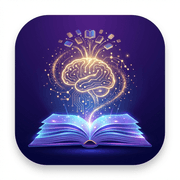
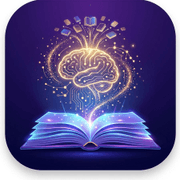
feat: nuova icona app, menu dropdown mobile, fix export - Nuova icona app (libro+cervello AI) con trim automatico spazio bianco - Menu dropdown dai 3 puntini su mobile (Esporta e Rigenera Copertina) - Ripristinato stile viola originale pulsante Esporta - Fix posizionamento menu export verso il basso

diff --git a/frontend/src/components/BookCard.tsx b/frontend/src/components/BookCard.tsx
@@ -1,4 +1,5 @@
-import { useState } from 'react';
+import { useState, useRef, useEffect } from 'react';
+import { createPortal } from 'react-dom';
 import { MoreVertical } from 'lucide-react';
 import toast from 'react-hot-toast';
 import { LibraryEntry, deleteBook, regenerateCover } from '../api/client';
@@ -22,6 +23,10 @@ export default function BookCard({ book, onDelete, onContinue, onResume, onRead,
   const [showDeleteConfirm, setShowDeleteConfirm] = useState(false);
   const [showRegenerateConfirm, setShowRegenerateConfirm] = useState(false);
   const [isExpanded, setIsExpanded] = useState(false);
+  const [isMenuOpen, setIsMenuOpen] = useState(false);
+  const [menuPosition, setMenuPosition] = useState({ top: 0, right: 0 });
+  const toggleRef = useRef<HTMLButtonElement>(null);
+  const menuRef = useRef<HTMLDivElement>(null);
 
   const handleRegenerateCover = async () => {
     setShowRegenerateConfirm(true);
@@ -107,6 +112,59 @@ export default function BookCard({ book, onDelete, onContinue, onResume, onRead,
     }
   };
 
+  // Gestione menu dropdown
+  useEffect(() => {
+    const updateMenuPosition = () => {
+      if (toggleRef.current) {
+        const rect = toggleRef.current.getBoundingClientRect();
+        setMenuPosition({
+          top: rect.bottom + 8,
+          right: window.innerWidth - rect.right,
+        });
+      }
+    };
+
+    if (isMenuOpen) {
+      updateMenuPosition();
+      window.addEventListener('scroll', updateMenuPosition, true);
+      window.addEventListener('resize', updateMenuPosition);
+    }
+
+    return () => {
+      window.removeEventListener('scroll', updateMenuPosition, true);
+      window.removeEventListener('resize', updateMenuPosition);
+    };
+  }, [isMenuOpen]);
+
+  useEffect(() => {
+    const handleClickOutside = (event: MouseEvent) => {
+      const target = event.target as Node;
+      const isToggleClick = toggleRef.current?.contains(target);
+      const isMenuClick = menuRef.current?.contains(target);
+      
+      if (!isToggleClick && !isMenuClick) {
+        setIsMenuOpen(false);
+      }
+    };
+
+    if (isMenuOpen) {
+      document.addEventListener('mousedown', handleClickOutside);
+    }
+
+    return () => {
+      document.removeEventListener('mousedown', handleClickOutside);
+    };
+  }, [isMenuOpen]);
+
+  const handleToggleMenu = () => {
+    setIsMenuOpen(!isMenuOpen);
+  };
+
+  const handleMenuAction = (action: () => void) => {
+    setIsMenuOpen(false);
+    action();
+  };
+
   const coverImageUrl = book.cover_image_path 
     ? `${API_BASE}/library/cover/${book.session_id}`
     : null;
@@ -129,10 +187,11 @@ export default function BookCard({ book, onDelete, onContinue, onResume, onRead,
               {getStatusLabel(book.status)}
             </span>
             <button
-              className={`book-card-toggle ${isExpanded ? 'expanded' : ''}`}
-              onClick={() => setIsExpanded(!isExpanded)}
-              aria-label={isExpanded ? 'Nascondi dettagli' : 'Mostra dettagli'}
-              aria-expanded={isExpanded}
+              ref={toggleRef}
+              className={`book-card-toggle ${isMenuOpen ? 'expanded' : ''}`}
+              onClick={handleToggleMenu}
+              aria-label="Menu opzioni"
+              aria-expanded={isMenuOpen}
             >
               <MoreVertical size={18} />
             </button>
@@ -199,9 +258,10 @@ export default function BookCard({ book, onDelete, onContinue, onResume, onRead,
               📝 Critica
             </button>
           )}
+          {/* Su mobile, nascondi Esporta e Rigenera Copertina - vanno nel menu */}
           {book.status === 'complete' && !book.cover_image_path && (
             <button 
-              className="action-btn regenerate-cover-btn" 
+              className="action-btn regenerate-cover-btn regenerate-cover-btn-desktop" 
               onClick={handleRegenerateCover}
               disabled={regenerating}
             >
@@ -214,7 +274,9 @@ export default function BookCard({ book, onDelete, onContinue, onResume, onRead,
             </button>
           )}
           {book.status === 'complete' && (
-            <ExportDropdown sessionId={book.session_id} />
+            <div className="export-dropdown-desktop">
+              <ExportDropdown sessionId={book.session_id} />
+            </div>
           )}
           {(book.status === 'writing' || book.status === 'paused') && onContinue && (
             <button className="action-btn continue-btn" onClick={() => onContinue(book.session_id)}>
@@ -259,6 +321,50 @@ export default function BookCard({ book, onDelete, onContinue, onResume, onRead,
         onConfirm={confirmRegenerateCover}
         onCancel={() => setShowRegenerateConfirm(false)}
       />
+
+      {/* Menu Dropdown */}
+      {isMenuOpen && createPortal(
+        <div
+          ref={menuRef}
+          className="book-card-menu"
+          style={{
+            position: 'fixed',
+            top: menuPosition.top,
+            right: menuPosition.right,
+          }}
+        >
+          {/* Sezione Dettagli */}
+          <div className="book-card-menu-section">
+            <button
+              className="book-card-menu-item"
+              onClick={() => handleMenuAction(() => setIsExpanded(!isExpanded))}
+            >
+              {isExpanded ? '👁 Nascondi dettagli' : '👁 Mostra dettagli'}
+            </button>
+          </div>
+
+          {/* Sezione Azioni (solo se complete) */}
+          {book.status === 'complete' && (
+            <div className="book-card-menu-section">
+              {book.status === 'complete' && !book.cover_image_path && (
+                <button
+                  className="book-card-menu-item book-card-menu-item-regenerate"
+                  onClick={() => handleMenuAction(handleRegenerateCover)}
+                  disabled={regenerating}
+                >
+                  {regenerating ? '⏳ Rigenerazione...' : '🖼 Rigenera Copertina'}
+                </button>
+              )}
+              {book.status === 'complete' && (
+                <div className="book-card-menu-export">
+                  <ExportDropdown sessionId={book.session_id} />
+                </div>
+              )}
+            </div>
+          )}
+        </div>,
+        document.body
+      )}
 
     </div>
   );

diff --git a/frontend/src/components/BookCard.css b/frontend/src/components/BookCard.css
@@ -317,6 +317,81 @@
   cursor: not-allowed;
 }
 
+/* Menu Dropdown */
+.book-card-menu {
+  position: fixed;
+  background: var(--surface, #ffffff);
+  border: 1px solid var(--border-light, #e5e7eb);
+  border-radius: var(--radius-md, 0.5rem);
+  box-shadow: 0 4px 12px rgba(0, 0, 0, 0.15);
+  z-index: 99999;
+  min-width: 200px;
+  max-width: 280px;
+  overflow: hidden;
+  animation: slideDown 0.2s ease;
+}
+
+@keyframes slideDown {
+  from {
+    opacity: 0;
+    transform: translateY(-10px);
+  }
+  to {
+    opacity: 1;
+    transform: translateY(0);
+  }
+}
+
+.book-card-menu-section {
+  padding: 0.5rem 0;
+}
+
+.book-card-menu-section:not(:last-child) {
+  border-bottom: 1px solid var(--border-light, #e5e7eb);
+}
+
+.book-card-menu-item {
+  display: flex;
+  align-items: center;
+  gap: 0.75rem;
+  width: 100%;
+  padding: 0.75rem 1rem;
+  background: transparent;
+  border: none;
+  text-align: left;
+  cursor: pointer;
+  font-size: 0.9rem;
+  color: var(--text-primary, #1f2937);
+  transition: background-color 0.15s ease;
+  font-family: 'Outfit', sans-serif;
+}
+
+.book-card-menu-item:hover:not(:disabled) {
+  background: var(--background-secondary, #f9fafb);
+}
+
+.book-card-menu-item:active:not(:disabled) {
+  background: var(--border-light, #e5e7eb);
+}
+
+.book-card-menu-item:disabled {
+  opacity: 0.6;
+  cursor: not-allowed;
+}
+
+.book-card-menu-export {
+  padding: 0.5rem 1rem;
+}
+
+.book-card-menu-export .export-dropdown {
+  width: 100%;
+}
+
+.book-card-menu-export .export-dropdown-button {
+  width: 100%;
+  justify-content: center;
+}
+
 /* Meta Info */
 .book-card-meta {
   font-size: 0.75rem;
@@ -324,6 +399,35 @@
   margin-top: 0.5rem;
   padding-top: 0.5rem;
   border-top: 1px solid var(--border-light);
+}
+
+/* Nascondi Esporta e Rigenera Copertina su mobile - vanno nel menu */
+@media (max-width: 768px) {
+  .regenerate-cover-btn-desktop {
+    display: none;
+  }
+
+  .export-dropdown-desktop {
+    display: none;
+  }
+
+  .book-card-menu-item-regenerate {
+    display: block;
+  }
+
+  .book-card-menu-export {
+    display: block;
+  }
+}
+
+@media (min-width: 769px) {
+  .book-card-menu-item-regenerate {
+    display: none;
+  }
+
+  .book-card-menu-export {
+    display: none;
+  }
 }
 
 /* Responsive */
@@ -339,16 +443,32 @@
   }
 
   .book-card-header {
-    flex-direction: column;
+    flex-direction: row;
+    flex-wrap: wrap;
     align-items: flex-start;
-    gap: 0.75rem;
+    gap: 0.5rem;
+  }
+
+  .book-title {
+    flex: 1 1 100%;
+    order: 1;
+    font-size: 1.15rem;
+    padding-right: 0;
   }
 
   .book-card-header-actions {
-    align-self: flex-end;
-    position: absolute;
-    top: 0;
-    right: 0;
+    order: 2;
+    position: static;
+    width: 100%;
+    display: flex;
+    justify-content: space-between;
+    align-items: center;
+    margin-top: 0.25rem;
+  }
+
+  .status-badge {
+    font-size: 0.65rem;
+    padding: 0.25rem 0.7rem;
   }
 
   .book-card-info-essential {

diff --git a/frontend/scripts/generate-icons.js b/frontend/scripts/generate-icons.js
@@ -5,7 +5,26 @@ import { dirname, join } from 'path';
 const __filename = fileURLToPath(import.meta.url);
 const __dirname = dirname(__filename);
 
-const originalIcon = join(__dirname, '../public/app-icon-original.png');
+// Cerca l'icona originale in vari formati
+const { existsSync } = await import('fs');
+const possiblePaths = [
+  join(__dirname, '../public/app-icon-original.png'),
+  join(__dirname, '../public/app-icon-original.jpeg'),
+  join(__dirname, '../public/app-icon-original.jpg'),
+];
+
+let originalIcon = null;
+for (const path of possiblePaths) {
+  if (existsSync(path)) {
+    originalIcon = path;
+    break;
+  }
+}
+
+if (!originalIcon) {
+  console.error('❌ Nessuna icona originale trovata! Cerca app-icon-original.png, .jpeg o .jpg in public/');
+  process.exit(1);
+}
 
 const sizes = [
   { size: 192, name: 'icon-192.png' },
@@ -17,10 +36,18 @@ const sizes = [
 async function generateIcons() {
   console.log('Generazione icone da app-icon-original.png...\n');
   
+  // Prima carica l'immagine e rimuovi lo spazio bianco
+  const image = sharp(originalIcon);
+  
+  // Trim dello spazio bianco (rimuove padding bianco/trasparente)
+  const trimmed = await image
+    .trim({ threshold: 10 }) // Rimuove bordi con differenza < 10
+    .toBuffer();
+  
   for (const { size, name } of sizes) {
     const outputPath = join(__dirname, `../public/${name}`);
     
-    await sharp(originalIcon)
+    await sharp(trimmed)
       .resize(size, size, {
         fit: 'cover',
         position: 'center'

diff --git a/frontend/src/components/ExportDropdown.css b/frontend/src/components/ExportDropdown.css
@@ -61,10 +61,11 @@
 
 /* Menu renderizzato come Portal (posizione fixed nel body) */
 .export-dropdown-menu-portal {
-  position: fixed;
+  position: fixed !important;
   z-index: 99999; /* Sopra tutto */
-  width: 140px; /* Larghezza fissa per evitare espansione */
-  max-width: 140px;
+  /* Rimuoviamo bottom/left/right per evitare conflitti - usa solo inline style */
+  bottom: auto !important;
+  right: auto !important;
 }
 
 @keyframes slideDown {

diff --git a/frontend/src/components/ExportDropdown.tsx b/frontend/src/components/ExportDropdown.tsx
@@ -41,7 +41,7 @@ export default function ExportDropdown({ sessionId, disabled = false, className 
         left = Math.max(8, Math.min(left, viewportWidth - menuWidth - 8));
         
         setMenuPosition({
-          top: rect.bottom + 8, // 8px di gap
+          top: rect.bottom + 8, // 8px di gap, menu si apre verso il basso
           left: left,
         });
       }
